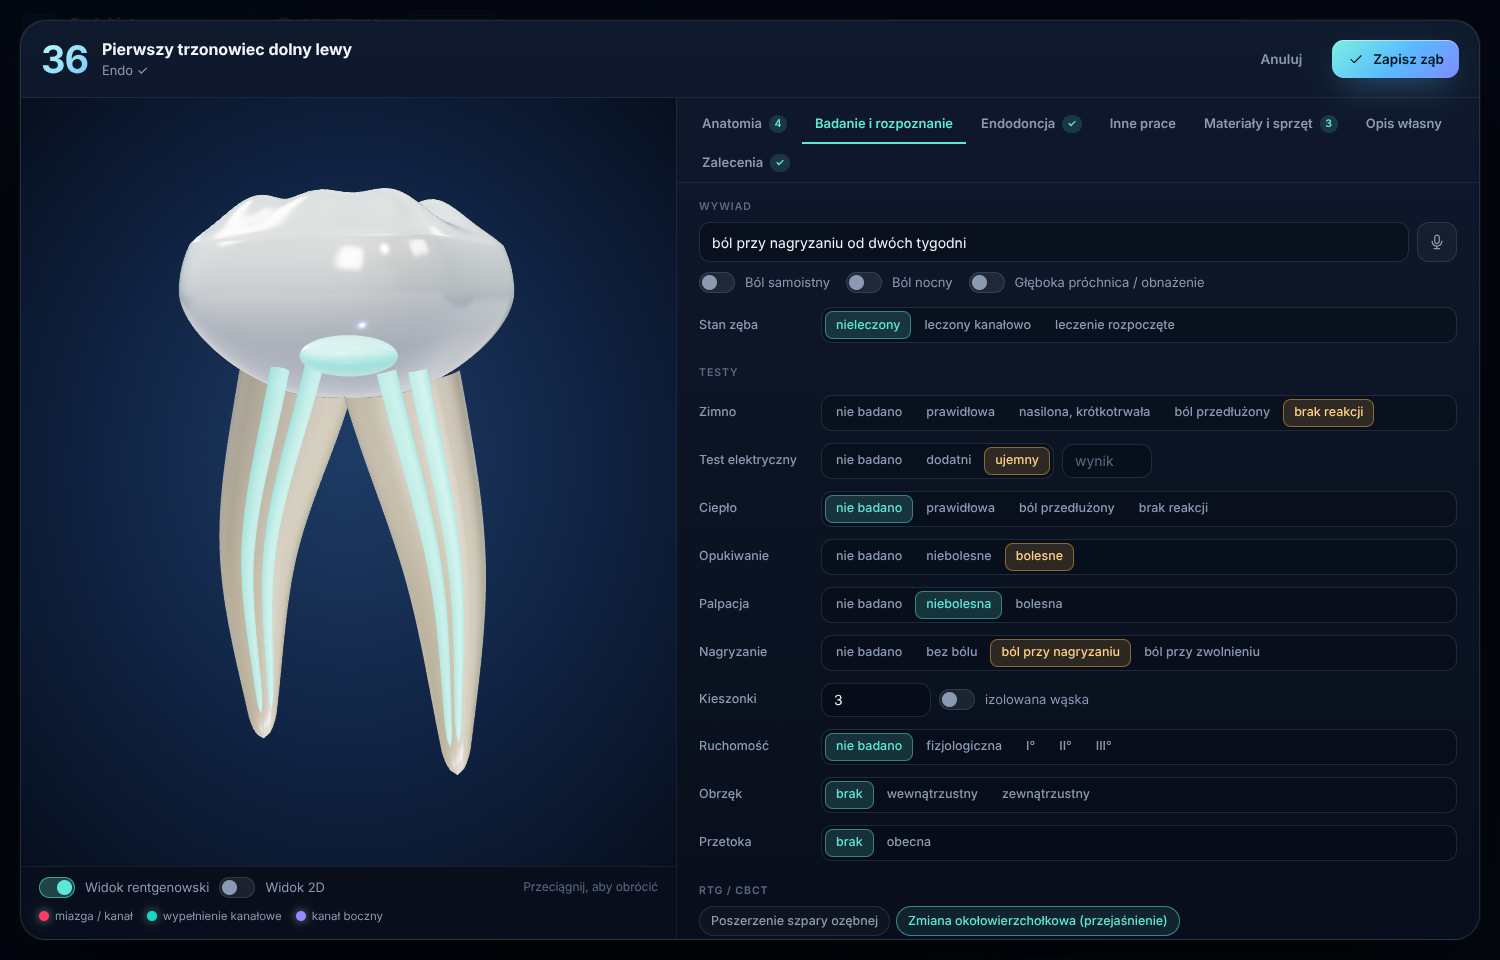
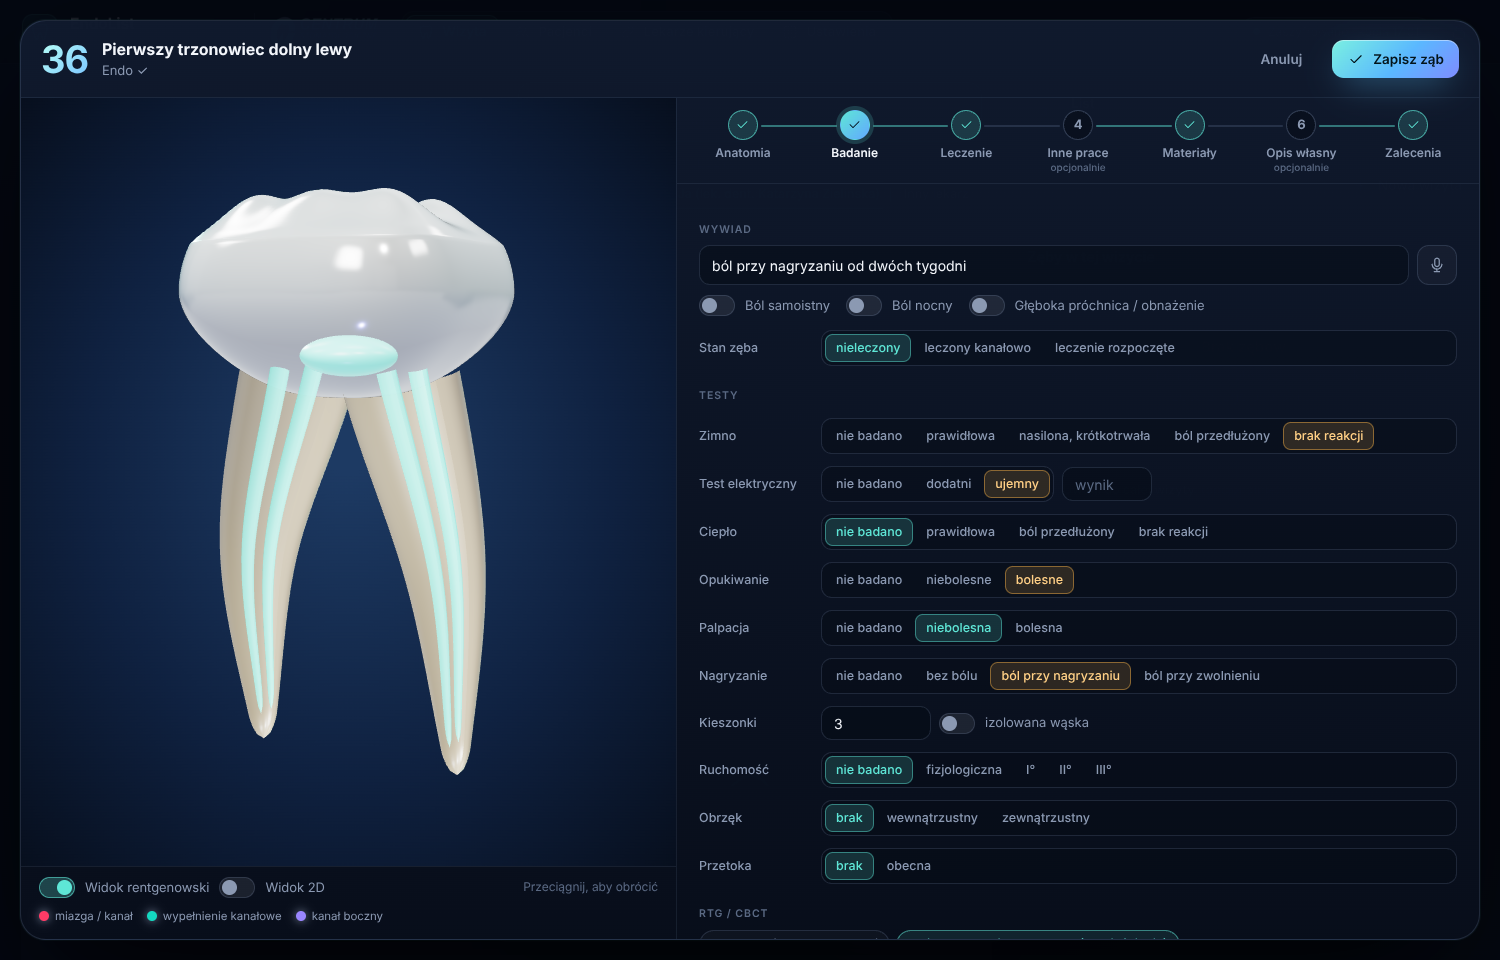
EndoList 2.4.0: print button, step-by-step tooth card, visit guide
- Big 'Drukuj' button next to e-mail and PDF; prints the letter PDF from a hidden
  frame once loaded (iPhone/iPad: opens the PDF for the share-menu print)
- Tooth card tabs are now 7 numbered steps with ticks for steps that have data,
  'opcjonalnie' on optional ones, and Back / 'Dalej' buttons with 'Krok N z 7'
- Visit screen: 1-2-3 guide (patient and referrer -> teeth -> letter)
- Visit notes collapsed behind a button while empty (nothing removed)
- e2e checks for all of the above

Claude-Session: https://claude.ai/code/session_01N2R7jD5mcfB683ZhhSfV7y

diff --git a/endolist/public/js/app.js b/endolist/public/js/app.js
@@ -45,7 +45,7 @@ const ICONS = {
   plus: '<path d="M12 5v14M5 12h14"/>', x: '<path d="M6 6l12 12M18 6 6 18"/>', check: '<path d="M5 12.5l4.5 4.5L19 7.5"/>',
   folder: '<path d="M3 7a2 2 0 0 1 2-2h4l2 2h8a2 2 0 0 1 2 2v8a2 2 0 0 1-2 2H5a2 2 0 0 1-2-2z"/>',
   print: '<path d="M7 9V3h10v6"/><rect x="3" y="9" width="18" height="8" rx="2"/><path d="M7 14h10v7H7z"/>',
-  refresh: '<path d="M20 11a8 8 0 1 0-2.3 5.7"/><path d="M20 4v7h-7"/>', back: '<path d="M15 5l-7 7 7 7"/>',
+  refresh: '<path d="M20 11a8 8 0 1 0-2.3 5.7"/><path d="M20 4v7h-7"/>', back: '<path d="M15 5l-7 7 7 7"/>', next: '<path d="M9 5l7 7-7 7"/>',
   link: '<path d="M10 14a4 4 0 0 0 5.7 0l3-3a4 4 0 0 0-5.7-5.7l-1 1"/><path d="M14 10a4 4 0 0 0-5.7 0l-3 3a4 4 0 0 0 5.7 5.7l1-1"/>',
   copy: '<rect x="8" y="8" width="12" height="12" rx="2.5"/><path d="M16 8V6a2 2 0 0 0-2-2H6a2 2 0 0 0-2 2v8a2 2 0 0 0 2 2h2"/>',
   shield: '<path d="M12 3l7.5 3v5.5c0 4.6-3.2 8.3-7.5 9.5-4.3-1.2-7.5-4.9-7.5-9.5V6z"/><path d="M8.8 12.2l2.2 2.2 4.4-4.6"/>',
@@ -70,7 +70,7 @@ const DEFAULT_SETTINGS = {
   security: { autolock: 15 },
   used: {},
 };
-export const APP_VERSION = '2.3.5';
+export const APP_VERSION = '2.4.0';
 const WRITER = 2; // letter writer generation (first-person narrative)
 const S = { session: null, folder: null, data: null, view: 'visit', visitId: null, fdi: null, ttab: 'anat', letterId: null, patientId: null, search: '', saving: 0, backingUp: false, installEvt: null, lastActive: Date.now(), previewUrl: null, sync: null, syncStatus: null };
 const D = () => S.data;
@@ -514,7 +514,7 @@ function viewVisit() {
   const v = ensureVisit();
   const p = D().patients.get(v.patientId), r = D().referrers.get(v.referrerId);
   const { marks, inv } = visitMarks(v);
-  return `
+  return `<div id="flow">${flowHTML(v)}</div>
   <div class="visitbar">
     <button class="who ${p ? '' : 'empty'}" data-act="pick-patient"><span class="av">${p ? esc(initials(p.first, p.last).toUpperCase()) : I('user')}</span><span><small>Pacjent</small><b>${p ? esc(patientName(p)) : 'Wybierz pacjenta'}</b>${p && (p.pesel || p.dob) ? `<em>${p.pesel ? 'PESEL ' + esc(p.pesel) : 'ur. ' + fmtDate(p.dob)}</em>` : ''}</span></button>
     <button class="who ${r ? '' : 'empty'}" data-act="pick-referrer"><span class="av ref">${r ? esc((r.kind === 'clinic' ? (r.clinic || 'K')[0] : initials(r.first, r.last)).toUpperCase()) : I('link')}</span><span><small>Lekarz kierujący</small><b>${r ? esc(refName(r)) : 'Wybierz adresata'}</b></span></button>
@@ -533,11 +533,22 @@ function viewVisit() {
     <section class="panel vside">
       <header><h3>Zęby w tej wizycie</h3><span class="sub" id="vcount">${v.teeth.length || ''}</span></header>
       <div class="body" id="vteeth">${visitTeethList(v)}</div>
-      <div class="body" style="border-top:1px solid var(--line)">
+      <div class="body" style="border-top:1px solid var(--line)">${v.notes || S.vNotesOpen ? `
         <div class="row" style="margin-bottom:8px"><span class="label" style="margin:0">Uwagi do całej wizyty</span><span class="grow"></span>${micBtn('v.notes')}</div>
-        <textarea data-b="v.notes" rows="3" placeholder="Opcjonalnie — np. ogólny stan, zalecenia dla pacjenta. AI uwzględni je w liście.">${esc(v.notes)}</textarea>
+        <textarea data-b="v.notes" rows="3" placeholder="Opcjonalnie — np. ogólny stan, zalecenia dla pacjenta. AI uwzględni je w liście.">${esc(v.notes)}</textarea>` : `<button class="btn btn-ghost btn-sm" data-act="vnotes-open">${I('plus')} Uwagi do całej wizyty <span class="faint">(opcjonalnie)</span></button>`}
       </div>
     </section>
+  </div>`;
+}
+function flowHTML(v) {
+  const p = D().patients.get(v.patientId), r = D().referrers.get(v.referrerId);
+  const s1 = !!(p && r), s2 = v.teeth.length > 0;
+  return `<div class="flow">
+    <button class="fstep ${s1 ? 'done' : 'on'}" data-act="${p ? (r ? 'pick-patient' : 'pick-referrer') : 'pick-patient'}"><span class="n">${s1 ? I('check') : 1}</span><span><b>Pacjent i lekarz kierujący</b><small>${s1 ? 'wybrani' : !p ? 'wybierz pacjenta' : 'wybierz lekarza kierującego'}</small></span></button>
+    <span class="fsep">${I('next')}</span>
+    <div class="fstep ${s2 ? 'done' : s1 ? 'on' : ''}"><span class="n">${s2 ? I('check') : 2}</span><span><b>Zęby</b><small>${s2 ? `${v.teeth.length} ${v.teeth.length === 1 ? 'ząb' : v.teeth.length < 5 ? 'zęby' : 'zębów'} — możesz dodać kolejne` : 'kliknij ząb na schemacie'}</small></span></div>
+    <span class="fsep">${I('next')}</span>
+    <button class="fstep ${s2 ? 'on' : ''}" data-act="flow-letter" ${s2 ? '' : 'disabled'}><span class="n">3</span><span><b>List</b><small>${s2 ? 'kliknij, aby wygenerować' : 'po dodaniu zębów'}</small></span></button>
   </div>`;
 }
 function visitTeethList(v) {
@@ -547,6 +558,7 @@ function visitTeethList(v) {
 }
 function afterVisit() {
   const v = curVisit(), n = v.teeth.length;
+  const fl = $('#flow'); if (fl) fl.innerHTML = flowHTML(v);
   $('#actionbar').innerHTML = `<div class="actionbar"><span class="sum">${n ? `<b>${n}</b> ${n === 1 ? 'ząb' : n < 5 ? 'zęby' : 'zębów'}: ${v.teeth.map((t) => t.fdi).join(', ')}` : 'Kliknij ząb na schemacie'}</span>
     <button class="btn" data-act="save-visit">${I('check')} Zapisz wizytę</button>
     <button class="btn btn-primary btn-xl" data-act="gen-letter" ${n ? '' : 'disabled'}>${I('spark')} Generuj list</button></div>`;
@@ -565,14 +577,12 @@ function openTooth(fdi) {
   S.ws = { fdi, isNew: !ex, draft: clone(ex || newToothRec(fdi, v.performer === 'other')), dirty: !ex };
   S.ttab = 'anat';
   const ov = document.createElement('div'); ov.className = 'ws-overlay'; ov.id = 'ws';
-  ov.innerHTML = workspaceHTML();
+  ov.innerHTML = workspaceHTML(); requestAnimationFrame(centerStep);
   $('#modal-root').appendChild(ov);
   mount3D(); renderDx(); refreshVisit();
 }
 function workspaceHTML() {
   const t = S.ws.draft, ti = toothInfo(t.fdi);
-  const counts = { anat: (t.roots || []).reduce((a, r) => a + r.canals.length, 0), work: (t.work || []).length, mat: (t.products || []).length, manual: t.manual ? '✓' : '' };
-  const tabs = [['anat', 'Anatomia', counts.anat], ['dx', 'Badanie i rozpoznanie'], ['endo', 'Endodoncja', t.endo.proc ? '✓' : ''], ['work', 'Inne prace', counts.work || ''], ['mat', 'Materiały i sprzęt', counts.mat || ''], ['manual', 'Opis własny', counts.manual], ['rec', 'Zalecenia', t.rec?.prog ? '✓' : '']];
   return `<div class="ws" role="dialog" aria-modal="true" aria-label="Ząb ${t.fdi}">
     <header class="ws-head"><div class="tp-num">${t.fdi}</div><div class="grow"><div class="ws-title">${esc(ti.name[0].toUpperCase() + ti.name.slice(1))}</div><div class="tp-name" id="ws-sum">${esc(toothSummary(t))}</div></div>
       ${S.ws.isNew ? '' : `<button class="btn btn-ghost btn-sm btn-danger" data-act="rm-tooth">${I('trash')} Usuń ząb</button>`}
@@ -584,16 +594,43 @@ function workspaceHTML() {
         <div class="stage-bar"><label class="switch"><input type="checkbox" id="xray" ${S.xray !== false ? 'checked' : ''}><span class="track"><span class="thumb"></span></span>Widok rentgenowski</label><label class="switch"><input type="checkbox" id="flat2d" ${localStorage.getItem('endolist:no3d') === '1' ? 'checked' : ''}><span class="track"><span class="thumb"></span></span>Widok 2D</label><span class="grow"></span><span class="hint">Przeciągnij, aby obrócić</span></div>
         <div class="stage-legend"><span><i style="background:#ff3b66"></i>miazga / kanał</span><span><i style="background:#14d8c0"></i>wypełnienie kanałowe</span><span><i style="background:#9a86ff"></i>kanał boczny</span></div>
       </div>
-      <div class="ws-right"><div class="tabs" id="ws-tabs">${tabs.map(([k, l, b]) => `<button data-ttab="${k}" class="${S.ttab === k ? 'on' : ''}">${l}${b ? ` <span class="badge">${b}</span>` : ''}</button>`).join('')}</div>
+      <div class="ws-right"><div class="tabs steps" id="ws-tabs">${stepsHTML(t)}</div>
         <div class="tp-body" id="ws-tab">${tabBody(t)}</div></div>
     </div></div>`;
 }
-const tabBody = (t) => ({ anat: tabAnat, dx: tabDx, endo: tabEndo, work: tabWork, mat: tabMat, manual: tabManual, rec: tabRec }[S.ttab])(t);
+// The tooth card is a step-by-step form: numbered steps, a tick when a step has data, "Dalej" to move on.
+const WS_STEPS = [
+  ['anat', 'Anatomia', 'Korzenie i kanały'], ['dx', 'Badanie', 'Badanie i rozpoznanie'], ['endo', 'Leczenie', 'Leczenie endodontyczne'],
+  ['work', 'Inne prace', 'Wypełnienia, odbudowy i inne prace', true], ['mat', 'Materiały', 'Materiały i sprzęt'],
+  ['manual', 'Opis własny', 'Opis własnymi słowami lub dyktowanie', true], ['rec', 'Zalecenia', 'Zalecenia i rokowanie'],
+];
+function stepDone(k, t) {
+  const d = t.dx || {}, ts = d.tests || {};
+  return {
+    anat: !!t.anatOk, dx: !!(d.pulp || d.peri || d.history?.cc || (d.radio || []).length || ts.probe || ['cold', 'heat', 'ept', 'perc', 'palp', 'bite'].some((x) => ts[x] && ts[x] !== 'nt')),
+    endo: !!t.endo?.proc, work: !!(t.work || []).length, mat: !!((t.products || []).length || t.endo?.microBrand),
+    manual: !!t.manual?.trim(), rec: !!(t.rec?.restor || t.rec?.control || t.rec?.prog || t.rec?.note),
+  }[k];
+}
+function stepsHTML(t) {
+  return WS_STEPS.map(([k, l, title, opt], i) => { const done = stepDone(k, t);
+    return `<button data-ttab="${k}" class="step ${S.ttab === k ? 'on' : ''} ${done ? 'done' : ''}" title="${esc(title)}"><span class="n">${done ? I('check') : i + 1}</span><span class="l">${l}${opt ? '<small>opcjonalnie</small>' : ''}</span></button>`; }).join('');
+}
+/** Keep the current step visible in the strip (it scrolls sideways on a phone). */
+function centerStep() { const st = $('#ws-tabs'), on = $('#ws-tabs .step.on'); if (!st || !on || st.scrollWidth <= st.clientWidth) return; const a = st.getBoundingClientRect(), b = on.getBoundingClientRect(); st.scrollLeft += b.left - a.left - (a.width - b.width) / 2; }
+function stepNav() {
+  const i = WS_STEPS.findIndex(([k]) => k === S.ttab), prev = WS_STEPS[i - 1], next = WS_STEPS[i + 1];
+  return `<div class="step-nav">${prev ? `<button class="btn btn-ghost" data-ttab="${prev[0]}">${I('back')} ${esc(prev[1])}</button>` : '<span></span>'}
+    <span class="step-of">Krok ${i + 1} z ${WS_STEPS.length}</span>
+    ${next ? `<button class="btn btn-soft btn-lg" data-ttab="${next[0]}">Dalej: ${esc(next[1])} ${I('next')}</button>` : `<button class="btn btn-primary btn-lg" data-act="ws-save">${I('check')} Zapisz ząb</button>`}</div>`;
+}
+const tabBody = (t) => ({ anat: tabAnat, dx: tabDx, endo: tabEndo, work: tabWork, mat: tabMat, manual: tabManual, rec: tabRec }[S.ttab])(t) + stepNav();
 function refreshWorkspace({ tabs = true, model = false } = {}) {
   if (!S.ws) return;
   const t = S.ws.draft;
   if (tabs) { const y = $('#ws-tab').scrollTop; const nb = document.createElement('div'); nb.innerHTML = workspaceHTML(); $('#ws-tabs').innerHTML = nb.querySelector('#ws-tabs').innerHTML; $('#ws-tab').innerHTML = tabBody(t); $('#ws-tab').scrollTop = y; renderDx(); }
   $('#ws-sum').textContent = toothSummary(t);
+  centerStep();
   if (model) update3D();
 }
 function opts3D(t) { return { done: t.endo.status === 'done' && !!ENDO[t.endo.proc]?.obt, all: true }; }
@@ -1000,10 +1037,10 @@ function viewLetter() {
     <div class="letter-tools">
       <button class="btn btn-ghost btn-sm" data-act="regen">${I('refresh')} Wygeneruj od nowa</button>
       <button class="btn btn-ghost btn-sm" data-act="pdf-preview">${I('doc')} Podgląd PDF</button>
-      <button class="btn btn-ghost btn-sm" data-act="print">${I('print')} Drukuj</button>
       <button class="btn btn-ghost btn-sm" data-act="prodentis">${I('copy')} ProDentis</button>
     </div>
     <div class="letter-main">
+      <button class="btn btn-soft btn-xl" data-act="print">${I('print')} Drukuj</button>
       <button class="btn btn-soft btn-xl" data-act="email">${I('mail')} Wyślij e-mailem</button>
       <button class="btn btn-primary btn-xl" data-act="save-pdf">${I('save')} Zapisz PDF</button>
     </div></div>
@@ -1469,11 +1506,11 @@ document.addEventListener('click', async (e) => {
   const t = e.target;
   const nav = t.closest('[data-nav]'); if (nav && S.session) { S.search = ''; go(nav.dataset.nav); return; }
   const segb = t.closest('.seg[data-seg] button');
-  if (segb) { const sg = segb.parentElement; setBound(sg.dataset.seg, segb.dataset.v); $$('button', sg).forEach((b) => b.classList.toggle('on', b === segb)); if (sg.classList.contains('prog-seg')) { const c = sg.closest('.prog-card'), v = segb.dataset.v; c.className = `prog-card ${v ? 'set p-' + v : ''}`; $('.pc-h small', c).textContent = v ? `w liście: „Rokowanie: ${PROG[v]}”` : 'wybierz — pojawi się w zaleceniach listu'; const tb = $('#ws-tabs [data-ttab=rec]'); if (tb) tb.innerHTML = `Zalecenia${v ? ' <span class="badge">✓</span>' : ''}`; } if (sg.dataset.re || sg.dataset.seg.startsWith('v.')) rerender(sg.dataset.seg); return; }
+  if (segb) { const sg = segb.parentElement; setBound(sg.dataset.seg, segb.dataset.v); $$('button', sg).forEach((b) => b.classList.toggle('on', b === segb)); if (sg.classList.contains('prog-seg')) { const c = sg.closest('.prog-card'), v = segb.dataset.v; c.className = `prog-card ${v ? 'set p-' + v : ''}`; $('.pc-h small', c).textContent = v ? `w liście: „Rokowanie: ${PROG[v]}”` : 'wybierz — pojawi się w zaleceniach listu'; if (S.ws) $('#ws-tabs').innerHTML = stepsHTML(S.ws.draft); } if (sg.dataset.re || sg.dataset.seg.startsWith('v.')) rerender(sg.dataset.seg); return; }
   const mic = t.closest('[data-mic]'); if (mic) { toggleMic(mic); return; }
   const tooth = t.closest('#arch g.tooth'); if (tooth) { openTooth(+tooth.dataset.fdi); return; }
   const tch = t.closest('[data-open-tooth]'); if (tch) { openTooth(+tch.dataset.openTooth); return; }
-  const tt = t.closest('[data-ttab]'); if (tt) { S.ttab = tt.dataset.ttab; refreshWorkspace(); return; }
+  const tt = t.closest('[data-ttab]'); if (tt) { const ch = S.ttab !== tt.dataset.ttab; S.ttab = tt.dataset.ttab; refreshWorkspace(); if (ch) { const b = $('#ws-tab'); if (b) b.scrollTop = 0; } return; }
   const qk = t.closest('[data-quick]'); if (qk && S.ws) { quickToggle(S.ws.draft, qk.dataset.quick); S.ws.dirty = true; refreshWorkspace({ model: true }); return; }
   const row = t.closest('[data-open-patient]'); if (row) { go('patient', { patientId: row.dataset.openPatient }); return; }
   const rv = t.closest('[data-open-visit]'); if (rv && !t.closest('button')) { go('visit', { visitId: rv.dataset.openVisit }); return; }
@@ -1566,6 +1603,8 @@ async function action(act, a) {
       const nv = ensureVisit(); const p = await pickPatient(); if (p) { nv.patientId = p.id; save('visits', nv); renderView(); }
       return;
     }
+    case 'flow-letter': return $('#actionbar [data-act=gen-letter]')?.click();
+    case 'vnotes-open': { S.vNotesOpen = true; renderView(); $('[data-b="v.notes"]')?.focus(); return; }
     case 'new-visit': { const nv = newVisit(v?.patientId || '', v?.referrerId || ''); D().visits.set(nv.id, nv); return go('visit', { visitId: nv.id }); }
     case 'pick-patient': { const p = await pickPatient(); if (p) { v.patientId = p.id; save('visits', v); renderView(); } return; }
     case 'pick-referrer': { const r = await pickReferrer(); if (r) { v.referrerId = r.id; save('visits', v); renderView(); } return; }
@@ -1600,7 +1639,21 @@ async function action(act, a) {
     case 'save-pdf': { const L = D().letters.get(S.letterId); audit('pdf', L.id, L.patientId); return saveLetterPdf(L); }
     case 'email': { const L = D().letters.get(S.letterId); audit('email', L.id, L.patientId); return emailLetter(L); }
     case 'prodentis': { const L = D().letters.get(S.letterId); audit('prodentis', L.id, L.patientId); return prodentisModal(L); }
-    case 'print': { audit('print', S.letterId, D().letters.get(S.letterId)?.patientId); const b = await letterBlob(D().letters.get(S.letterId)); const w = window.open(URL.createObjectURL(b)); if (!w) toast('Zezwól na wyskakujące okna, aby drukować.', 'err'); else setTimeout(() => { try { w.print(); } catch {} }, 800); return; }
+    case 'print': {
+      const L = D().letters.get(S.letterId); audit('print', L.id, L.patientId);
+      // iPhone/iPad: show the PDF in a new tab (print from the share menu); elsewhere print it from a hidden frame once loaded
+      const ios = /iP(hone|ad|od)/.test(navigator.userAgent) || (navigator.platform === 'MacIntel' && navigator.maxTouchPoints > 1);
+      const w = ios ? window.open('', '_blank') : null;
+      if (ios && !w) { toast('Zezwól na wyskakujące okna, aby drukować.', 'err'); return; }
+      toast('Przygotowuję list do druku…');
+      const url = URL.createObjectURL(await letterBlob(L));
+      if (ios) { w.location.href = url; return; }
+      $('#print-frame')?.remove();
+      const f = document.createElement('iframe'); f.id = 'print-frame'; f.title = 'Drukowanie listu';
+      f.style.cssText = 'position:fixed;right:0;bottom:0;width:1px;height:1px;border:0;opacity:0;pointer-events:none';
+      f.onload = () => setTimeout(() => { try { f.contentWindow.focus(); f.contentWindow.print(); } catch { const nw = window.open(url, '_blank'); if (!nw) toast('Nie udało się otworzyć drukowania — użyj „Zapisz PDF” i wydrukuj plik.', 'err'); } }, 400);
+      f.src = url; document.body.appendChild(f); return;
+    }
     case 'regen-ai': { const L = D().letters.get(S.letterId); if ((L.notes || []).length && !(await confirmBox('Napisać list od nowa przez AI?', 'Obecna treść i uwagi zostaną zastąpione.', 'Napisz'))) return; await createLetter({ patientId: L.patientId, referrerId: L.referrerId, visitIds: L.visitIds, existing: L }); return; }
     case 'regen': { const L = D().letters.get(S.letterId); if (!(await confirmBox('Wygenerować list od nowa?', 'Obecna treść i uwagi zostaną zastąpione nową wersją listu.', 'Wygeneruj'))) return; return createLetter({ patientId: L.patientId, referrerId: L.referrerId, visitIds: L.visitIds, existing: L }); }
     case 'pdf-preview': return pdfPreview(D().letters.get(S.letterId));

diff --git a/endolist/public/css/app.css b/endolist/public/css/app.css
@@ -574,3 +574,39 @@ body { overflow-x: hidden; }
 .prog-seg button[data-v="poor"].on { background: rgba(255, 99, 120, 0.2); color: #ff9aa8; box-shadow: inset 0 0 0 1px rgba(255, 99, 120, 0.7); }
 .prog-seg button[data-v=""].on { background: rgba(255, 255, 255, 0.07); color: var(--strong); box-shadow: inset 0 0 0 1px var(--line-2); }
 @media (max-width: 520px) { .prog-seg { grid-template-columns: repeat(2, minmax(0, 1fr)); } }
+
+/* tooth card: numbered steps */
+.ws-right .tabs.steps { display: grid; grid-template-columns: repeat(7, minmax(0, 1fr)); gap: 0; padding: 12px 10px 10px; flex-wrap: nowrap; counter-reset: none; position: relative; }
+.tabs.steps .step { position: relative; height: auto; padding: 0 4px; display: flex; flex-direction: column; align-items: center; gap: 6px; border: 0; margin: 0; color: var(--dim); font-size: 12px; font-weight: 600; text-align: center; white-space: normal; line-height: 1.2; }
+.tabs.steps .step::before { content: ''; position: absolute; top: 15px; left: calc(-50% + 18px); right: calc(50% + 18px); height: 2px; border-radius: 2px; background: var(--line-2); }
+.tabs.steps .step:first-child::before { display: none; }
+.tabs.steps .step.done::before, .tabs.steps .step.on::before { background: rgba(94, 230, 214, 0.45); }
+.tabs.steps .step .n { width: 30px; height: 30px; border-radius: 50%; display: grid; place-items: center; font-size: 13px; font-weight: 700; border: 1.5px solid var(--line-3, rgba(255,255,255,.18)); background: rgba(3, 8, 18, 0.5); color: var(--dim); transition: none; }
+.tabs.steps .step .n .i { width: 15px; height: 15px; }
+.tabs.steps .step .l small { display: block; font-size: 10px; font-weight: 500; color: var(--faint); margin-top: 1px; }
+.tabs.steps .step.done .n { background: rgba(94, 230, 214, 0.16); border-color: rgba(94, 230, 214, 0.6); color: var(--accent); }
+.tabs.steps .step.on .n { background: linear-gradient(135deg, #5ee6d6, #62a9ff); border-color: transparent; color: #04121f; box-shadow: 0 0 0 4px rgba(94, 230, 214, 0.18); }
+.tabs.steps .step.on { color: var(--strong); }
+.tabs.steps .step:hover { color: var(--strong); }
+.step-nav { display: flex; align-items: center; gap: 10px; margin-top: 22px; padding-top: 14px; border-top: 1px solid var(--line); }
+.step-nav .step-of { flex: 1; text-align: center; color: var(--faint); font-size: 12px; }
+@media (max-width: 760px) {
+  .ws-right .tabs.steps { display: flex; justify-content: flex-start; overflow-x: auto; gap: 0; padding: 10px 6px 8px; position: sticky; top: 0; z-index: 3; }
+  .tabs.steps .step .l small { display: none; }
+  .tabs.steps .step { flex: 0 0 76px; }
+  .step-nav .step-of { display: none; }
+  .step-nav { justify-content: space-between; }
+}
+
+/* visit: 1-2-3 guide */
+.flow { display: flex; align-items: stretch; gap: 8px; margin-bottom: 14px; }
+.fstep { flex: 1; display: flex; align-items: center; gap: 12px; padding: 10px 14px; border-radius: 14px; border: 1px solid var(--line-2); background: rgba(255, 255, 255, 0.02); color: var(--dim); text-align: left; font: inherit; }
+button.fstep { cursor: pointer; } button.fstep:disabled { cursor: default; opacity: .75; }
+.fstep b { display: block; color: var(--text); font-size: 13.5px; } .fstep small { display: block; font-size: 12px; color: var(--faint); }
+.fstep .n { width: 30px; height: 30px; border-radius: 50%; flex: none; display: grid; place-items: center; font-weight: 700; font-size: 13px; border: 1.5px solid var(--line-2); }
+.fstep .n .i { width: 15px; height: 15px; }
+.fstep.done { border-color: rgba(94, 230, 214, 0.35); } .fstep.done .n { background: rgba(94, 230, 214, 0.16); border-color: rgba(94, 230, 214, 0.6); color: var(--accent); }
+.fstep.on { border-color: rgba(94, 230, 214, 0.6); background: linear-gradient(135deg, rgba(94, 230, 214, 0.1), rgba(98, 169, 255, 0.07)); }
+.fstep.on b { color: var(--strong); } .fstep.on .n { background: linear-gradient(135deg, #5ee6d6, #62a9ff); color: #04121f; border-color: transparent; }
+.fsep { display: grid; place-items: center; color: var(--faint); flex: none; } .fsep .i { width: 16px; height: 16px; }
+@media (max-width: 760px) { .flow { gap: 6px; } .fsep { display: none; } .fstep { padding: 8px; gap: 8px; flex-direction: column; text-align: center; } .fstep small { display: none; } .fstep b { font-size: 12px; } }

diff --git a/endolist/public/sw.js b/endolist/public/sw.js
@@ -1,5 +1,5 @@
 // EndoList — service worker: aplikacja działa offline (AI wymaga internetu).
-const VERSION = 'endolist-v19';
+const VERSION = 'endolist-v21';
 const ASSETS = [
   './', 'index.html', 'manifest.webmanifest', 'config.json', 'css/app.css',
   'js/app.js', 'js/ai.js', 'js/data.js', 'js/dx.js', 'js/files.js', 'js/letter.js', 'js/odontogram.js', 'js/pdf.js', 'js/vault.js', 'js/tooth3d.js', 'js/speech.js', 'js/letterview.js', 'js/sync.js', 'js/privacy.js', 'js/org.js',
